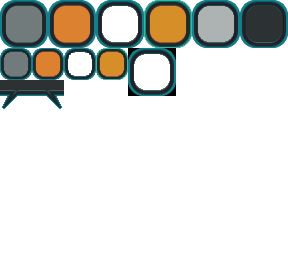
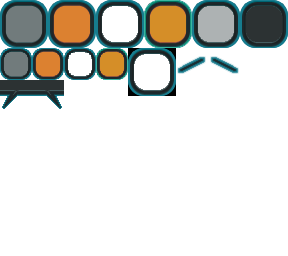
wip: tutorial

Changed region(s): [[0.5938, 0.2188, 0.8438, 0.3125]]

diff --git a/js/uxTutorial.js b/js/uxTutorial.js
@@ -34,8 +34,8 @@ class UxTutorial extends UxCtrl {
                     xxform: { border: .2 }, 
                     xchildren: [
                         Templates.menuText(null, "tutorial", {xxform: {otop: 20, bottom: .85}}),
-                        Templates.menuButton("skipButton", "skip", { xxform: { left: .1, right: .7, top: .85, bottom: .025 }}),
-                        Templates.menuButton("nextButton", "back", { xxform: { left: .7, right: .1, top: .85, bottom: .025 }}),
+                        Templates.menuButton("skipButton", "skip", { xxform: { left: .1, right: .7, top: .875, bottom: .025 }}),
+                        Templates.menuButton("nextButton", "next", { xxform: { left: .7, right: .1, top: .875, bottom: .025 }}),
                     ],
                 }),
             ],
@@ -48,6 +48,42 @@ class UxTutorial extends UxCtrl {
         Keys.evtKeyPressed.listen(this.onKeyDown);
         this.skipButton.evtClicked.listen(this.onSkip);
         this.nextButton.evtClicked.listen(this.onNext);
+        this.stageWelcome();
+    }
+
+    stageWelcome() {
+        let xmodal = {
+            cls: "UxPanel",
+            xsketch: { cls: "Media", tag: "buttonLight" },
+            xxform: { left: .2, right: .2, top: .4, bottom: .4 },
+            xchildren: [
+                Templates.playText(null, "welcome to Innis Fhaolain!!!", {xxform: { offset: 15 }}),
+            ]
+        };
+        this.modal = Generator.generate(xmodal);
+        this.panel.adopt(this.modal);
+        this.nextStage = this.stageShowAlette;
+    }
+
+    stageShowAlette() {
+        let xmodal = Templates.panel(null, {
+            xchildren: [
+                Templates.panel(null, {
+                    xsketch: { cls: "Media", tag: "markerLeft", lockRatio: true },
+                    xxform: { left: .535, right: .465, top: .45, bottom: .55, width: 32, height: 32 },
+                }),
+                Templates.panel(null, {
+                    xsketch: { cls: "Media", tag: "buttonLight" },
+                    xxform: { left: .55, right: .05, top: .3, bottom: .5 },
+                    xchildren: [
+                        Templates.playText(null, "this is Alette, your character", {xxform: { offset: 15 }}),
+                    ],
+                }),
+            ],
+        });
+        this.modal = Generator.generate(xmodal);
+        this.panel.adopt(this.modal);
+        this.nextStage = undefined;
     }
 
     onSkip(evt) {
@@ -56,8 +92,14 @@ class UxTutorial extends UxCtrl {
     }
 
     onNext(evt) {
-        // tear down current view
         console.log("onNext");
+        // tear down current modal (if any)
+        this.modal.destroy();
+        if (this.nextStage) {
+            this.nextStage();
+        } else {
+            this.destroy();
+        }
     }
 
     // the callback handler for a generic key press

diff --git a/js/sparkAssets.js b/js/sparkAssets.js
@@ -736,6 +736,8 @@ class SparkAssets {
                 {tag: "chatLeft", cls: "Sprite", width: 32, height: 32, x: 0, y: 80 },
                 {tag: "chatRight", cls: "Sprite", width: 32, height: 32, x: 32, y: 80 },
                 {tag: "buttonBlackBg", cls: "StretchSprite", width: 48, height: 48, x: 16*8, y: 16*3, border: 16 },
+                {tag: "markerLeft", cls: "Sprite", width: 32, height: 32, x: 16*11, y: 16*3 },
+                {tag: "markerRight", cls: "Sprite", width: 32, height: 32, x: 16*13, y: 16*3 },
             ]},
             /*
             { src: "img/buttonHover.png", loader: "Sheet", refs: [

diff --git a/js/sparkSystem.js b/js/sparkSystem.js
@@ -14,6 +14,7 @@ class SparkSystem extends System {
     cpre(spec) {
         super.cpre(spec);
         spec.iterateTTL = spec.iterateTTL || 0;
+        spec.ignorePause = true;
         spec.fixedPredicate = spec.fixedPredicate || ((e) => e.cat === "Model" && !e.passive);
     }
     cpost(spec) {
